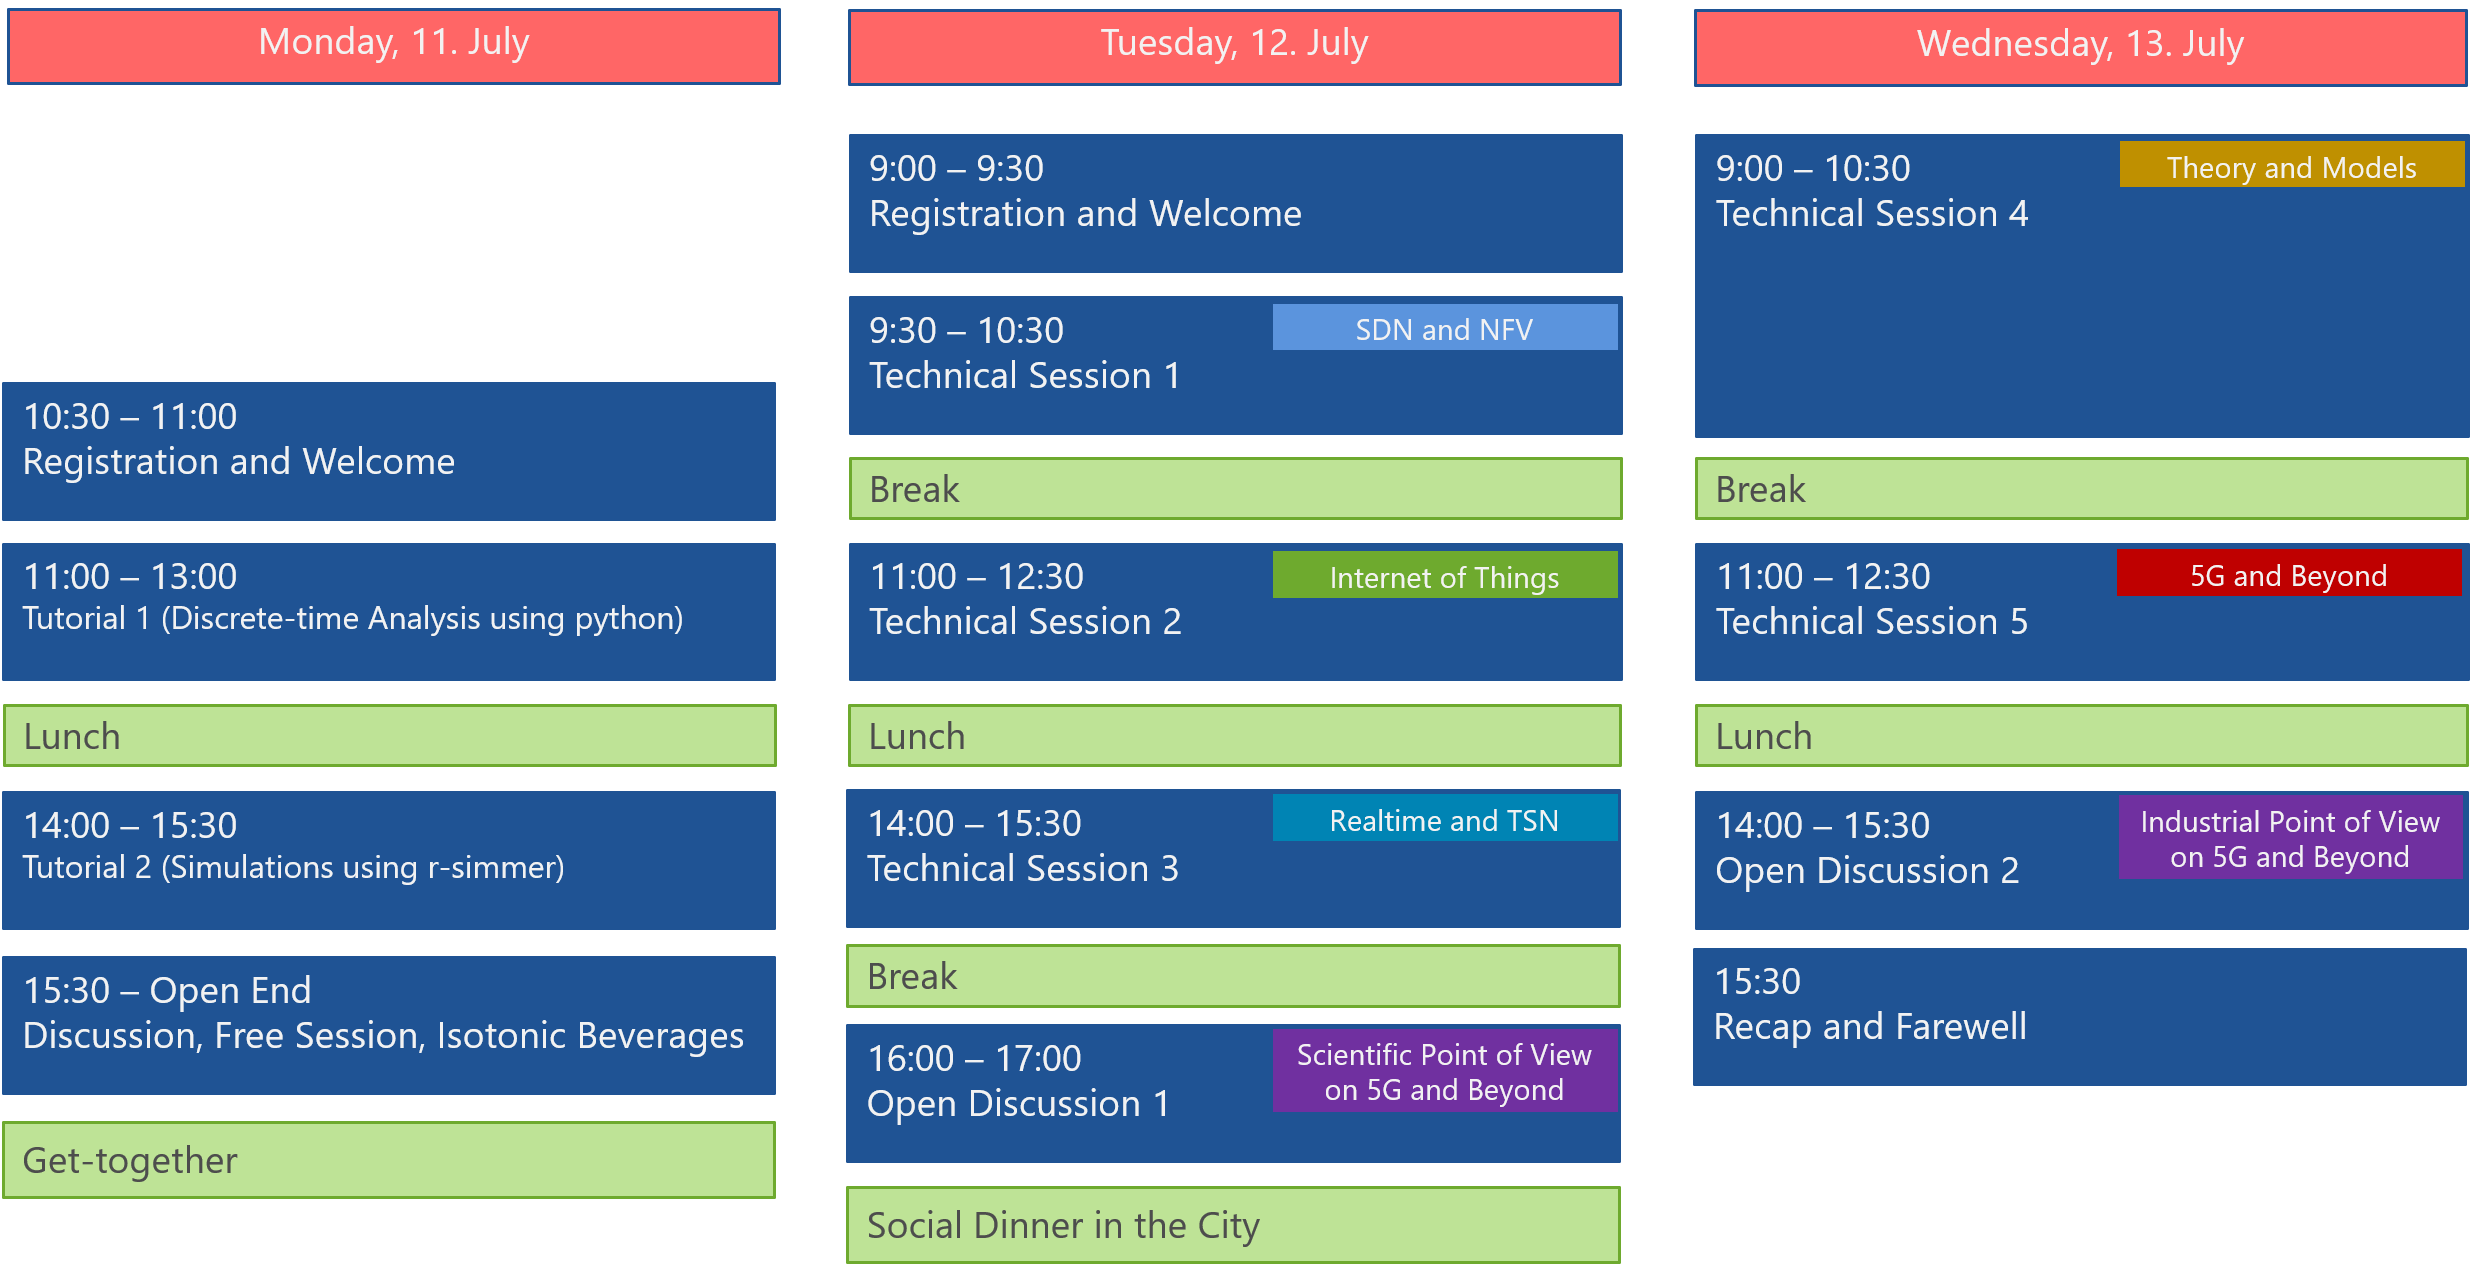
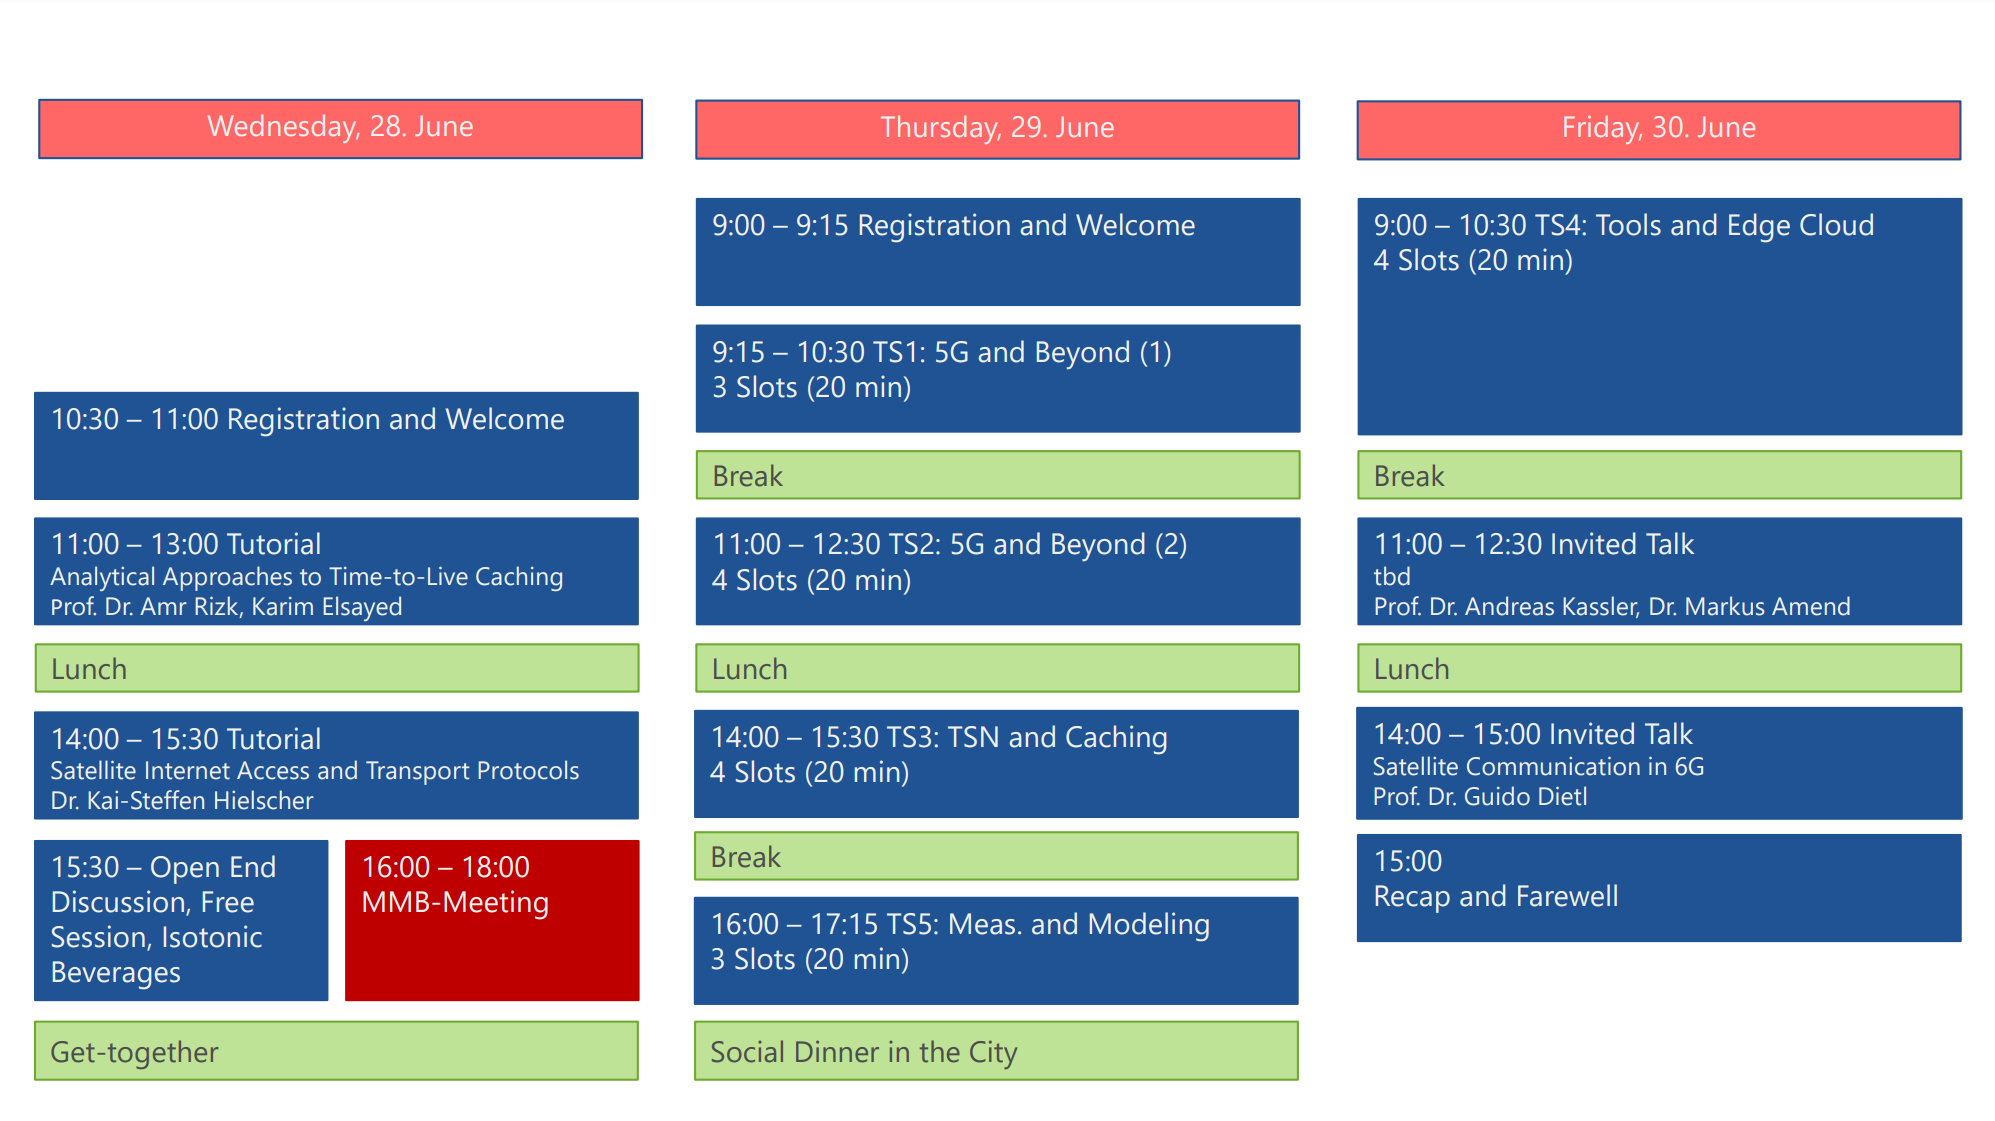
Add program menu point and content

diff --git a/_pages/program.md b/_pages/program.md
@@ -10,196 +10,37 @@ permalink: /program/
     <img src="{{ '/assets/images/workshop_program.png' | relative_url }}">
   </a>
 	  <figcaption>
-      Program for all three days: Tutorials on Monday, Technical Sessions and Discussion Slots on Tuesday and Wednesday.
+      Program for all three days: Tutorials on Wednesday, Technical Sessions and Discussion Slots on Thursday and Friday.
     </figcaption>
 </figure>
 
 # Detailed Program
 
-# Monday, July 11
+# TS1 - 5G and Beyond (75 min; 3 Slots á 22 min)
+- On Data Plane Multipath Scheduling for Connected Mobility Applications - *Martin Herrmann and Amr Rizk (University of Duisburg-Essen, Germany)*
+- JCAS-Enabled Sensing as a Service in 6th-Generation Mobile Communication Networks - *Christof Rauber and Lukas Brechtel (DFKI, Germany); Hans Dieter Schotten (Deutsches Forschungszentrum für Künstliche Intelligenz GmbH, Germany)*
+- Towards Understanding the Signaling Traffic in 5G Core Networks - *Simon Raffeck and Stefan Geissler (University of Wuerzburg, Germany); Tobias Hoßfeld (University of Würzburg, Germany)*
 
-<style type="text/css">
-.tg  {border-collapse:collapse;border-spacing:0;}
-.tg td{border-color:black;border-style:solid;border-width:1px;font-family:Arial, sans-serif;font-size:14px;
-  overflow:hidden;padding:10px 5px;word-break:normal;}
-.tg th{border-color:black;border-style:solid;border-width:1px;font-family:Arial, sans-serif;font-size:14px;
-  font-weight:normal;overflow:hidden;padding:10px 5px;word-break:normal;background-color: #FEFEFE;color: #252A34;font-weight: bold;}
-.tg .tg-0pky{border-color:inherit;text-align:left;vertical-align:top}
-.tg .tg-0lax{text-align:left;vertical-align:top}
-</style>
+# TS2 - 5G and Beyond (90 min; 4 Slots á 22 min)
+- Towards Understanding the Global IPX Network from an MVNO Perspective - *Viktoria Vomhoff (University of Würzburg, Germany); Stefan Geissler (University of Wuerzburg, Germany); Steffen Gebert (EMnify GmbH, Germany); Tobias Hoßfeld (University of Würzburg, Germany)*
+- Towards a 5G Satellite Communication Framework for V2X - *Luigi Martino, Jörg Deutschmann and Kai-Steffen J. Hielscher (Friedrich-Alexander-Universität Erlangen-Nürnberg, Germany); Reinhard German (University of Erlangen, Germany)*
+- Paving the Way for an Energy Efficient and Sustainable Future Internet of Things - *Frank Loh, Simon Raffeck and Stefan Geissler (University of Wuerzburg, Germany); Tobias Hoßfeld (University of Würzburg, Germany)*
+- Accelerating Transport Layer Multipath Packet Scheduling for 5G-ATSSS - *Fabian Brisch (Hochschule Osnabrück, Germany); Andreas J. Kassler, Jonathan Vestin and Marcus Pieska (Karlstad University, Sweden); Markus Amend (Deutsche Telekom, Germany)*
 
-<table class="tg">
-<tbody>
-  <tr>
-    <th class="tg-0pky">10:30 - 11:00</th>
-    <th class="tg-0pky">Registration and Welcome</th>
-  </tr>
-  <tr>
-    <td class="tg-0pky"></td>
-    <td class="tg-0pky"></td>
-  </tr>
-  <tr>
-    <th class="tg-0pky">11:00 - 13:00</th>
-    <th class="tg-0pky">Tutorial 1: Discrete-time Analysis using python (Tobias Hoßfeld) -- <a href="https://modeling.systems/"> Open access book, lecture slides (Chapter 5.1 & 6) and scripts (Chapter 6.4 & 7.6) </a> </th>
-  </tr>
-  <tr>
-    <td class="tg-0pky"></td>
-    <td class="tg-0pky"></td>
-  </tr>
-  <tr>
-    <th class="tg-0pky">14:00 - 15:30</th>
-    <th class="tg-0pky">Tutorial 2: Simulations using r-simmer (Stefan Geißler) -- <a href="https://github.com/lsinfo3/simmer-tutorial-WueWoWas2022">GitHub Repository</a></th>
-  </tr>
-  <tr>
-    <td class="tg-0pky"></td>
-    <td class="tg-0pky"></td>
-  </tr>
-  <tr>
-    <th class="tg-0pky">15:30 - Open End</th>
-    <th class="tg-0pky">Open Discussions, Free Session and Get-together</th>
-  </tr>
-</tbody>
-</table>
+# TS3 - TSN and Caching (90 min; 4 Slots á 22 min)
+- Never Miss Twice - Add-On-Miss Table Updates in Software Data Planes - *Manuel Simon and Sebastian Gallenmüller (Technical University of Munich, Germany); Georg Carle (Technische Universität München, Germany)*
+- Multiple DCLC Routing Algorithms for Ultra-Reliable and Time-Sensitive Applications - *Piyush Navade and Lisa Maile (Friedrich-Alexander-Universität Erlangen-Nürnberg, Germany); Reinhard German (University of Erlangen, Germany)*
+- Performance Analysis of Basic Web Caching Strategies (LFU, LRU, FIFO, ...) with Time-To-Live Data Validation - *Gerhard Hasslinger (Deutsche Telekom, Germany); Konstantinos Ntougias (University of Cyprus, Cyprus); Frank Hasslinger (TUDa, Germany); Oliver Hohlfeld (Brandenburg University of Technology, Germany)*
+- Online Algorithm for Arrival & Service Curve Estimation - *Christoph Funda (Friedrich-Alexander University Erlangen-Nuremberg, Germany & ZF Mobility Solutions GmbH, Germany); Pablo Marin (FAU Erlangen-Nuremberg, Germany); Reinhard German (University of Erlangen, Germany); Kai-Steffen J. Hielscher (Friedrich-Alexander-Universität Erlangen-Nürnberg, Germany)*
 
-# Tuesday, July 12
+# TS4 - Measurement and Modeling (75 min; 3 Slots á 22 min)
+- Understanding the Performance of Different Packet Reception and Timestamping Methods in Linux - *Alexej Grigorjew and Lukas Kilian Schumann (University of Wuerzburg, Germany); Philip Diederich (Technical University of Munich, Germany); Tobias Hoßfeld (University of Würzburg, Germany); Wolfgang Kellerer (Technische Universität München, Germany)*
+- Using P4-INT on Tofino for Measuring Device Performance Characteristics in a Network Lab - *Sadok Mehdi Mazigh, Marcel Beausencourt and Max Julius Bode (Hochschule Für Technik Und Wirtschaft, Germany); Thomas Scheffler (Hochschule für Technik und Wirtschaft Berlin, Germany)*
+- How to Model and Predict the Scalability of a Hardware-In-The-Loop Test Bench for Data Re-Injection? - *Christoph Funda (Friedrich-Alexander University Erlangen-Nuremberg, Germany & ZF Mobility Solutions GmbH, Germany); Tobias Konheiser (ZF Mobility Solutions GmbH, Germany); Reinhard German (University of Erlangen, Germany); Kai-Steffen J. Hielscher (Friedrich-Alexander-Universität Erlangen-Nürnberg, Germany)*
 
-<table class="tg">
-<tbody>
-  <tr>
-    <th class="tg-0pky">9:00 - 9:30</th>
-    <th class="tg-0pky">Registration and Welcome</th>
-  </tr>
-  <tr>
-    <td class="tg-0pky"></td>
-    <td class="tg-0pky"></td>
-  </tr>
-  <tr>
-    <th class="tg-0pky">9:30 - 10:30</th>
-    <th class="tg-0pky">Technical Session 1: SDN and NFV (Chair: Amr Rizk)</th>
-  </tr>
-  <tr>
-    <td class="tg-0pky"></td>
-    <td class="tg-0pky">Static Evaluation of a Wheel-Topology for an SDN-Based Network Usecase - Dimitrios Savvidis; Robert Roth (<a href="{{ '/assets/slides/dimitrios.pdf' | relative_url }}">Presentation</a>,<a href="https://opus.bibliothek.uni-wuerzburg.de/frontdoor/index/index/searchtype/collection/id/16504/start/13/rows/100/docId/28071">Abstract</a>)</td>
-  </tr>
-  <tr>
-    <td class="tg-0pky"></td>
-    <td class="tg-0pky">Cloudless Resource Monitoring in a Fog Computing System Enabled by an SDN/NFV Infrastructure - Duy Thanh Le; Marcel Großmann; Udo R. Krieger (<a href="{{ '/assets/slides/thanh-le.pdf' | relative_url }}">Presentation</a>,<a href="https://opus.bibliothek.uni-wuerzburg.de/frontdoor/index/index/searchtype/collection/id/16504/start/12/rows/100/docId/28072">Abstract</a>)</td>
-  </tr>
-  <tr>
-    <td class="tg-0pky"></td>
-    <td class="tg-0pky"></td>
-  </tr>
-  <tr>
-    <th class="tg-0pky">11:00 - 12:30</th>
-    <th class="tg-0pky">Technical Session 2: Internet of Things (Chair: Stanislav Lange)</th>
-  </tr>
-  <tr>
-    <td class="tg-0pky"></td>
-    <td class="tg-0pky">DBM: Decentralized Burst Mitigation for Self-Organizing LoRa Deployments - Simon Raffeck; Stefan Geissler; Tobias Hoßfeld (<a href="{{ '/assets/slides/raffeck.pdf' | relative_url }}">Presentation</a>,<a href="https://opus.bibliothek.uni-wuerzburg.de/frontdoor/index/index/searchtype/collection/id/16504/start/5/rows/100/docId/28080">Abstract</a>)</td>
-  </tr>
-  <tr>
-    <td class="tg-0pky"></td>
-    <td class="tg-0pky">Identification of Signaling Patterns in Mobile IoT Signaling Traffic - Viktoria Vomhoff; Stefan Geissler; Tobias Hoßfeld (<a href="{{ '/assets/slides/vomhoff.pdf' | relative_url }}">Presentation</a>,<a href="https://opus.bibliothek.uni-wuerzburg.de/frontdoor/index/index/searchtype/collection/id/16504/start/4/rows/100/docId/28081">Abstract</a>)</td>
-  </tr>
-  <tr>
-    <td class="tg-0pky"></td>
-    <td class="tg-0pky">LoRaWAN Network Planning in Smart Environments: Towards Reliability, Scalability, and Cost Reduction - Frank Loh; Stefan Geissler; Tobias Hoßfeld (<a href="{{ '/assets/slides/loh.pdf' | relative_url }}">Presentation</a>,<a href="https://opus.bibliothek.uni-wuerzburg.de/frontdoor/index/index/searchtype/collection/id/16504/start/2/rows/100/docId/28082">Abstract</a>)</td>
-  </tr>
-  <tr>
-    <td class="tg-0pky"></td>
-    <td class="tg-0pky"></td>
-  </tr>
-  <tr>
-    <th class="tg-0pky">14:00 - 15:30</th>
-    <th class="tg-0pky">Technical Session 3: Realtime and TSN (Chair: Andreas Kassler)</th>
-  </tr>
-  <tr>
-    <td class="tg-0pky"></td>
-    <td class="tg-0pky">Next-Generation Satellite Communication Networks - Jörg Deutschmann; Kai-Steffen Hielscher; Reinhard German (<a href="{{ '/assets/slides/deutschmann.pdf' | relative_url }}">Presentation</a>,<a href="https://opus.bibliothek.uni-wuerzburg.de/frontdoor/index/index/searchtype/collection/id/16504/start/11/rows/100/docId/28073">Abstract</a>)</td>
-  </tr>
-  <tr>
-    <td class="tg-0pky"></td>
-    <td class="tg-0pky">Evaluating Dynamic Path Reconfiguration for Time Sensitive Networks - Nurefşan Sertbaş Bülbül; Doğanalp Ergenç; Mathias Fischer (<a href="{{ '/assets/slides/buelbuel.pdf' | relative_url }}">Presentation</a>,<a href="https://opus.bibliothek.uni-wuerzburg.de/frontdoor/index/index/searchtype/collection/id/16504/start/10/rows/100/docId/28074">Abstract</a>)</td>
-  </tr>
-  <tr>
-    <td class="tg-0pky"></td>
-    <td class="tg-0pky">Affordable Measurement Setups for Networking Device Latency with Sub-Microsecond Accuracy - Alexej Grigorjew; Philip Diederich; Tobias Hoßfeld; Wolfgang Kellerer (<a href="{{ '/assets/slides/grigorjew.pdf' | relative_url }}">Presentation</a>,<a href="https://opus.bibliothek.uni-wuerzburg.de/frontdoor/index/index/searchtype/collection/id/16504/start/9/rows/100/docId/28075">Abstract</a>)</td>
-  </tr>
-  <tr>
-    <td class="tg-0pky"></td>
-    <td class="tg-0pky"></td>
-  </tr>
-  <tr>
-    <th class="tg-0pky">16:00 - 17:00</th>
-    <th class="tg-0pky">Discussion Slot 1: Scientific Point of View on 5G and Beyond (Moderator: Poul Heegaard; NTNU)</th>
-  </tr>
-  <tr>
-    <td class="tg-0pky"></td>
-    <td class="tg-0pky"></td>
-  </tr>
-  <tr>
-    <th class="tg-0pky">from 19:00</th>
-    <th class="tg-0pky">Social Dinner at Restaurant Alter Kranen, Kranenkai 1, 97070 Würzburg</th>
-  </tr>
-</tbody>
-</table>
-
-# Wednesday, July 13
-
-<table class="tg">
-<tbody>
-  <tr>
-    <th class="tg-0pky">9:00 - 10:30</th>
-    <th class="tg-0pky">Technical Session 4: Theory and Models (Chair: Udo Krieger)</th>
-  </tr>
-  <tr>
-    <td class="tg-0pky"></td>
-    <td class="tg-0pky">Reproducible by Design: Network Experiments with Pos - Sebastian Gallenmüller; Dominik Scholz; Henning Stubbe; Eric Hauser; Georg Carle (<a href="{{ '/assets/slides/gallenmueller.pdf' | relative_url }}">Presentation</a>,<a href="https://opus.bibliothek.uni-wuerzburg.de/frontdoor/index/index/searchtype/collection/id/16504/start/1/rows/100/docId/28083">Abstract</a>)</td>
-  </tr>
-  <tr>
-    <td class="tg-0pky"></td>
-    <td class="tg-0pky">Response Times in Time-To-Live Caching Hierarchies Under Random Network Delays - Karim Elsayed; Amr Rizk (<a href="{{ '/assets/slides/elsayed.pdf' | relative_url }}">Presentation</a>,<a href="https://opus.bibliothek.uni-wuerzburg.de/frontdoor/index/index/searchtype/collection/id/16504/start/0/rows/100/docId/28084">Abstract</a>)</td>
-  </tr>
-  <tr>
-    <td class="tg-0pky"></td>
-    <td class="tg-0pky">Effective Rate of URLLC with Short Block-Length Information Theory - Najib Odhah; Eckhard Grass; Rolf Kraemer (<a href="{{ '/assets/slides/odhah.pdf' | relative_url }}">Presentation</a>,<a href="https://opus.bibliothek.uni-wuerzburg.de/frontdoor/index/index/searchtype/collection/id/16504/start/3/rows/100/docId/28085">Abstract</a>)</td>
-  </tr>
-  <tr>
-    <td class="tg-0pky"></td>
-    <td class="tg-0pky"></td>
-  </tr>
-  <tr>
-    <th class="tg-0pky">11:00 - 12:30</th>
-    <th class="tg-0pky">Technical Session 5: 5G and Beyond (Chair: Dirk Staehle)</th>
-  </tr>
-  <tr>
-    <td class="tg-0pky"></td>
-    <td class="tg-0pky">Virtual Queues for QoS Compliance of Haptic Data Streams in Teleoperation - Osel Lhamo; Giang T. Nguyen; Frank H.P. Fitzek (<a href="https://opus.bibliothek.uni-wuerzburg.de/frontdoor/index/index/searchtype/collection/id/16504/start/8/rows/100/docId/28076">Abstract</a>)</td>
-  </tr>
-  <tr>
-    <td class="tg-0pky"></td>
-    <td class="tg-0pky">Towards Stateless Core Networks: Measuring State Access Patterns - Malte Höweler; Zuo Xiang; Franz Höpfner; Giang T. Nguyen; Frank H.P. Fitzek (<a href="{{ '/assets/slides/hoeweler.pdf' | relative_url }}">Presentation</a>,<a href="https://opus.bibliothek.uni-wuerzburg.de/frontdoor/index/index/searchtype/collection/id/16504/start/7/rows/100/docId/28077">Abstract</a>)</td>
-  </tr>
-  <tr>
-    <td class="tg-0pky"></td>
-    <td class="tg-0pky">Accelerating a Transport Layer Based 5G Multi-Access Proxy on SmartNIC - Rebecka Alfredsson; Andreas J. Kassler; Jonathan Vestin; Marcus Pieska; Markus Amend (<a href="https://opus.bibliothek.uni-wuerzburg.de/frontdoor/index/index/searchtype/collection/id/16504/start/6/rows/100/docId/28079">Abstract</a>)</td>
-  </tr>
-  <tr>
-    <td class="tg-0pky"></td>
-    <td class="tg-0pky"></td>
-  </tr>
-  <tr>
-    <th class="tg-0pky">14:00 - 15:30</th>
-    <th class="tg-0pky">Discussion Slot 2: Industrial Point of View on 5G and Beyond (Moderator: Steffen Gebert; EMnify))</th>
-  </tr>
-  <tr>
-    <td class="tg-0pky"></td>
-    <td class="tg-0pky"></td>
-  </tr>
-  <tr>
-    <th class="tg-0pky">15:30 - 16:00</th>
-    <th class="tg-0pky">Wrapup and Farewell</th>
-  </tr>
-</tbody>
-</table>
+# TS5 - Tools and Edge Cloud (90 min; 4 Slots á 22 min)
+- Emulation of Multipath Transmissions in P4 Networks with Kathará - *Marcel Großmann and Tobias Homeyer (University of Bamberg, Germany)*
+- Visualization of Network Emulation Enabled by Katharà - *Marcel Großmann and Duy Thanh Le (University of Bamberg, Germany)*
+- Federated Learning for Service Placement in Fog and Edge Computing - *Manuel Dworzak, Marcel Großmann and Duy Thanh Le (University of Bamberg, Germany)*
+- Challenges of Serverless Deployment in Edge-MEC-Cloud - *Kien Nguyen and Frank Loh (University of Wuerzburg, Germany); Tobias Hoßfeld (University of Würzburg, Germany)*
 
